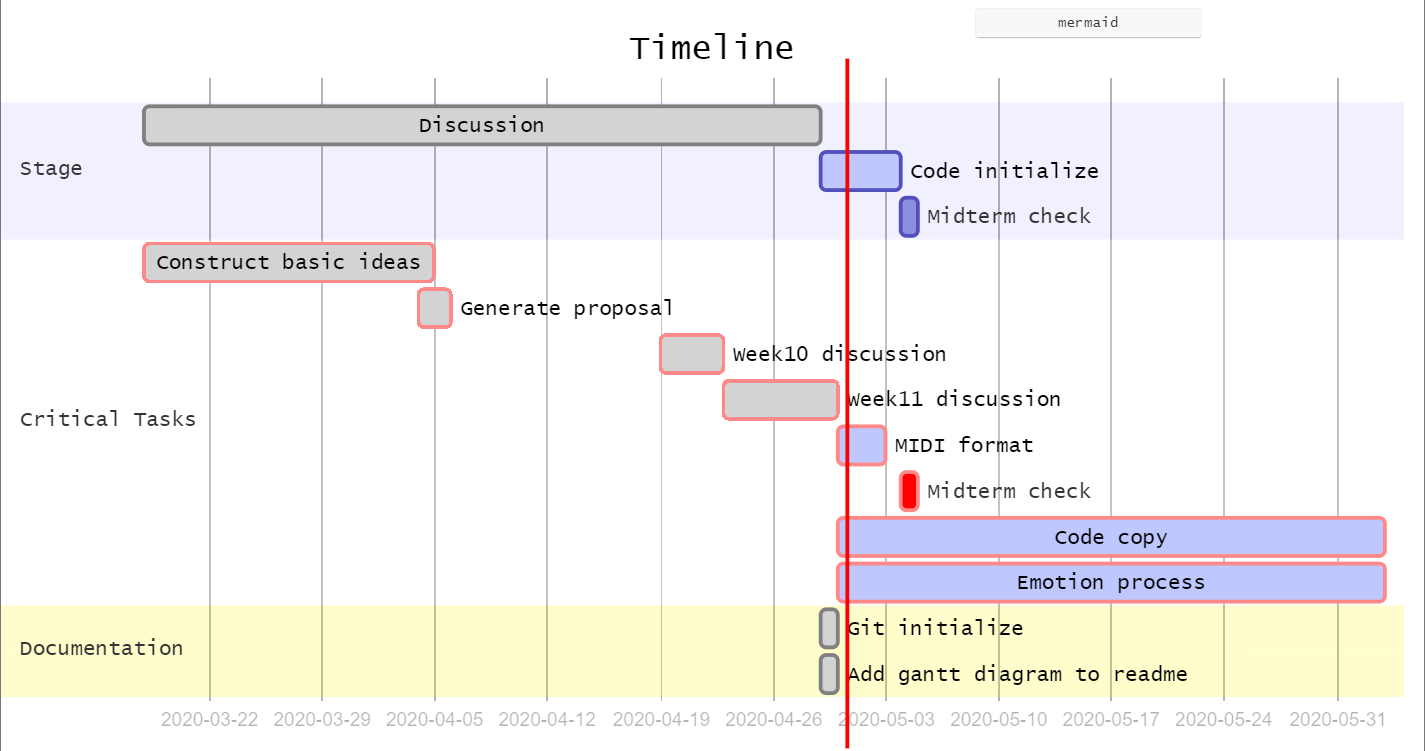
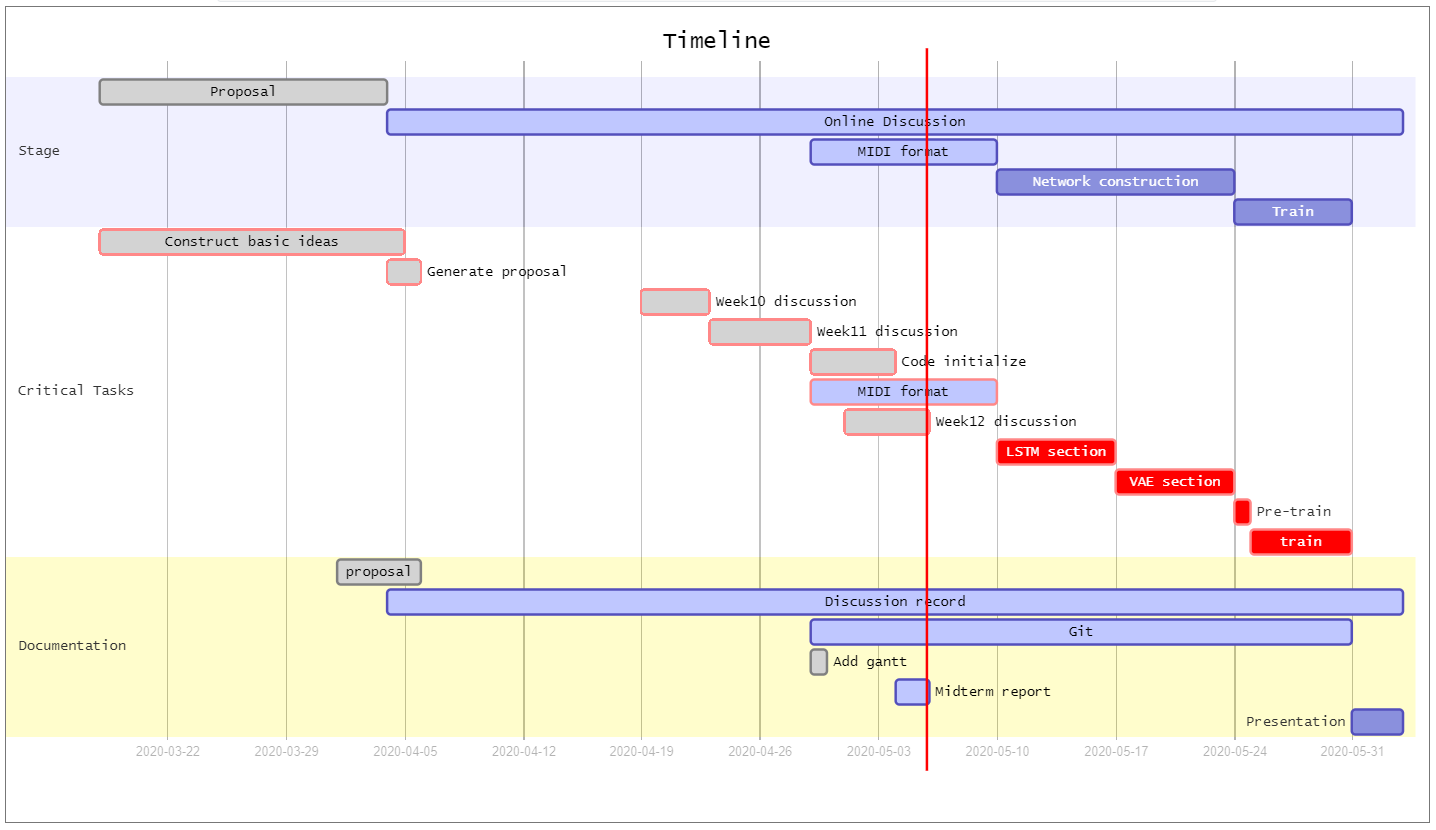
5/15/2020 Updated

diff --git a/static/gantt.md b/static/gantt.md
@@ -4,21 +4,32 @@
   title Timeline
 
   section Stage
-  Discussion        :done,    des1, 2020-03-18, 2020-04-29
-  Code initialize   :active,  des2, 2020-04-29, 2020-05-04
-  Midterm check     :         des3, 2020-05-04, 2020-05-05
+  Proposal				:done,    des0, 2020-03-18, 2020-04-04
+  Online Discussion     :active,  des1, 2020-04-04, 2020-06-03
+  MIDI format       	:active,  des4, 2020-04-29, 2020-05-10
+  Network construction  :         des5, 2020-05-10, 2020-05-24
+  Train					:		  des6, 2020-05-24, 2020-05-31
+  
 
   section Critical Tasks
   Construct basic ideas               :crit, done,    2020-03-18, 2020-04-05
   Generate proposal                   :crit, done,    2020-04-04, 2020-04-06
   Week10 discussion                   :crit, done,    2020-04-19, 2020-04-23
-  Week11 discussion                   :crit, done,    7d
-  MIDI format                         :crit, active,  2020-04-30, 2020-05-03
-  Midterm check                       :crit,          2020-05-04, 2020-05-05
-  Code copy                           :crit, active,  2020-04-30, 2020-06-03
-  Emotion process                     :crit, active,  2020-04-30, 2020-06-03
+  Week11 discussion                   :crit, done,    6d
+  Code initialize   				  :crit, done,    2020-04-29, 2020-05-04
+  MIDI format                         :crit, active,  2020-04-29, 2020-05-10
+  Week12 discussion                   :crit, done,    2020-05-01, 2020-05-06
+  LSTM section						  :crit,          2020-05-10, 2020-05-17
+  VAE section						  :crit,          2020-05-17, 2020-05-24
+  Pre-train							  :crit,          2020-05-24, 2020-05-25
+  train								  :crit,		  2020-05-25, 2020-05-31
 
   section Documentation
-  Git initialize                      :done, a1, after des1, 1d
-  Add gantt diagram to readme         :done, a1, after des1, 1d
+  proposal 			  			      :done, 		  2020-04-01, 2020-04-06
+  Discussion record					  :active, 		  2020-04-04, 2020-06-03
+  Git				                  :active, 		  2020-04-29, 2020-05-31
+  Add gantt                           :done, 		  2020-04-29, 2020-04-30
+  Midterm report                      :active, 		  2020-05-04, 2020-05-06
+  Presentation						  :		          2020-05-31, 2020-06-03
+  
 ```
